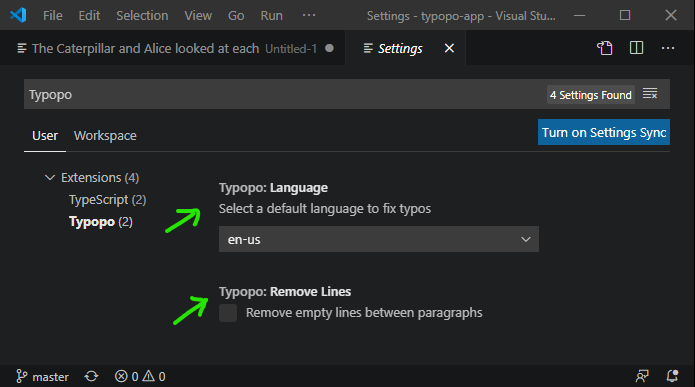
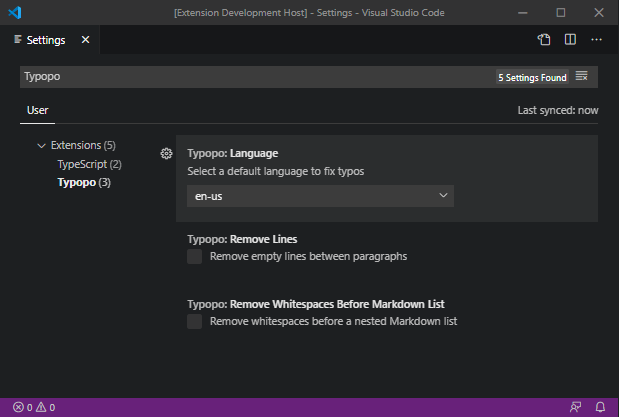
📝 Update docs

diff --git a/README.md b/README.md
@@ -21,29 +21,32 @@ Write neat notes without bothering about all the typography rules.
 
 ## Contents
 - [Typopo extension for VS Code](#typopo-extension-for-vs-code)
-	- [Fix typos in code](#fix-typos-in-code)
-	- [Fix typos in Markdown notes](#fix-typos-in-markdown-notes)
-	- [Contents](#contents)
-	- [Use](#use)
-	- [Settings](#settings)
-	- [Features](#features)
-	- [Further use](#further-use)
-	- [News & Releases](#news-releases)
-	- [Support](#support)
-	- [Feedback](#feedback)
-	- [License](#license)
+  - [Fix typos in code](#fix-typos-in-code)
+  - [Fix typos in Markdown notes](#fix-typos-in-markdown-notes)
+  - [Contents](#contents)
+  - [Use](#use)
+  - [Settings](#settings)
+  - [Features](#features)
+  - [Further use](#further-use)
+  - [News & Releases](#news-releases)
+  - [Support](#support)
+  - [Feedback](#feedback)
+  - [License](#license)
 
 ## Use 
 1. Select text you wish to fix
 2. Fix it, either by `Typopo: Fix Typos` via menu or via `Ctrl+Alt+T` (Win) or `Ctrl+Cmd+T` (Mac).
 
 ## Settings
-You can set a default language and choose whether you wish to keep or remove empty lines. You can fix microtypography for:
-- English,
-- German,
-- Rusyn,
-- Czech,
-- Slovak texts. 
+You can set:
+- a default language for typography rules:
+  - English
+  - German
+  - Rusyn
+  - Czech
+  - Slovak
+- choose to keep/remove empty lines
+- choose to keep/remove whitespaces before a nested Markdown list
 
 ![Typopo Settings in VS Code](assets/typopo--vs-code-settings.png "Typopo Settings in VS Code")
 

diff --git a/CHANGELOG.md b/CHANGELOG.md
@@ -1,5 +1,21 @@
 # Change Log for Typopo VS Code extension
 
+## 1.1.0 // 2020-11-25
+### New features
+New configuration option to remove/keep whitespaces before nested markdown lists. By default, whitespaces before markdown list are kept.
+
+**Typopo now keeps nested lists:**
+
+![Typopo keeps nested lists](assets/typopo-keeps-nested-lists.gif "Typopo keeps nested lists")
+
+**Optionally, you can set whitespaces before nested markdown lists to be removed:**
+
+![Typopo removes nested lists](assets/typopo-removes-nested-lists.gif "Typopo removes nested lists")
+
+
+
+
+
 ## 1.0.3 // 2020-11-01
 ### Updates
 - Bump Typopo package to its latest version ([2.3.7](https://github.com/surfinzap/typopo/releases/tag/2%2F3%2F7))
